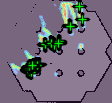
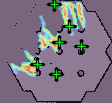
Ajout des points d'intéret + limitation

diff --git a/main.py b/main.py
@@ -142,15 +142,47 @@ class DetectionPointsInteretsUltraUltra:
 
     # ---------- Étape 6 ----------
     def topk_points_interet(self, heatmap: np.ndarray, top_k: int) -> List[Tuple[int,int,float]]:
+        """
+        Retourne 1 point d'intérêt par zone :
+        - segmentation connected components
+        - pour chaque composante, on prend le pixel de score maximum
+        - on trie les points par score
+        - on applique top_k facultatif
+        """
+        # Mask des zones valides
         mask = heatmap > 0
-        ys, xs = np.nonzero(mask)
-        scores = heatmap[ys, xs]
-        if scores.size > top_k:
-            idx = np.argpartition(-scores, top_k)[:top_k]
-            xs, ys, scores = xs[idx], ys[idx], scores[idx]
-        idx_sort = np.argsort(-scores)
-        xs, ys, scores = xs[idx_sort], ys[idx_sort], scores[idx_sort]
-        return list(zip(xs, ys, scores))
+
+        # 1⃣ Segmentation en zones connectées
+        num_labels, labels = cv2.connectedComponents(mask.astype(np.uint8))
+
+        points = []
+
+        # 2⃣ Pour chaque zone (sauf 0 : fond)
+        for lab in range(1, num_labels):
+            ys, xs = np.where(labels == lab)
+            if len(xs) == 0:
+                continue
+
+            # Scores de la zone
+            scores = heatmap[ys, xs]
+
+            # Best pixel of the zone
+            idx_best = np.argmax(scores)
+            best_x = xs[idx_best]
+            best_y = ys[idx_best]
+            best_score = scores[idx_best]
+
+            points.append((best_x, best_y, float(best_score)))
+
+        # 3⃣ Tri décroissant
+        points.sort(key=lambda p: -p[2])
+
+        # 4⃣ Optionnel : top-K
+        if len(points) > top_k:
+            points = points[:top_k]
+
+        return points
+
     
     def enregistrer_heatmap_superposee(self, alpha=0.55, colormap=cv2.COLORMAP_TURBO):
 
